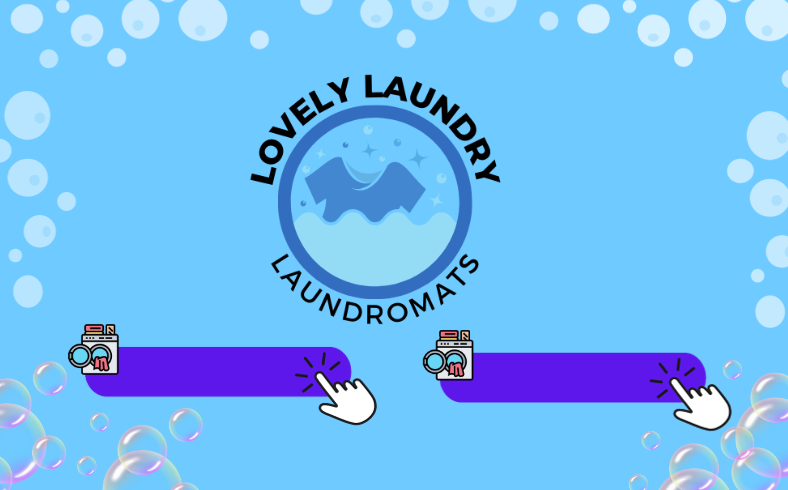
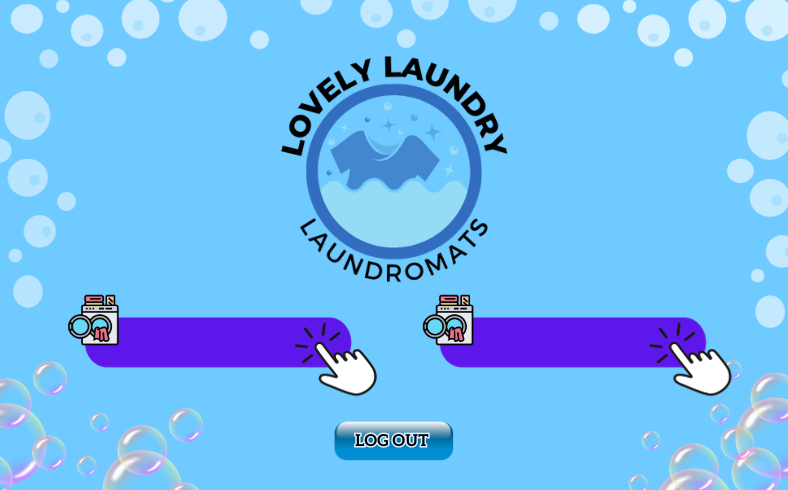
Modified some classes

Changed region(s): [[0.0609, 0.1224, 0.9442, 0.949]]

diff --git a/src/View/Dashboard.java b/src/View/Dashboard.java
@@ -1,7 +1,6 @@
 package View;
 
 import Controller.*;
-import View.*;
 
 public class Dashboard extends ViewController {
 
@@ -18,26 +17,43 @@ public class Dashboard extends ViewController {
     // <editor-fold defaultstate="collapsed" desc="Generated Code">//GEN-BEGIN:initComponents
     private void initComponents() {
 
-        btnInputOrder = new javax.swing.JButton();
-        btnOrderList = new javax.swing.JButton();
+        jLabel1 = new javax.swing.JLabel();
+        jLabel2 = new javax.swing.JLabel();
         jLabel3 = new javax.swing.JLabel();
+        jLabel4 = new javax.swing.JLabel();
+        btnLogout = new javax.swing.JButton();
+        btnOrderList = new javax.swing.JButton();
+        btnInputOrder = new javax.swing.JButton();
 
         setDefaultCloseOperation(javax.swing.WindowConstants.EXIT_ON_CLOSE);
-        setPreferredSize(new java.awt.Dimension(780, 490));
         getContentPane().setLayout(null);
 
-        btnInputOrder.setBackground(new java.awt.Color(94, 23, 235));
-        btnInputOrder.setFont(new java.awt.Font("Segoe UI", 1, 18)); // NOI18N
-        btnInputOrder.setForeground(new java.awt.Color(255, 255, 255));
-        btnInputOrder.setText("Input Order");
-        btnInputOrder.setBorder(null);
-        btnInputOrder.addActionListener(new java.awt.event.ActionListener() {
+        jLabel1.setFont(new java.awt.Font("Segoe UI", 1, 18)); // NOI18N
+        jLabel1.setForeground(new java.awt.Color(255, 255, 255));
+        jLabel1.setText("Input Order");
+        getContentPane().add(jLabel1);
+        jLabel1.setBounds(160, 330, 100, 25);
+
+        jLabel2.setFont(new java.awt.Font("Segoe UI", 1, 18)); // NOI18N
+        jLabel2.setForeground(new java.awt.Color(255, 255, 255));
+        jLabel2.setText("Order List");
+        getContentPane().add(jLabel2);
+        jLabel2.setBounds(520, 330, 100, 25);
+        getContentPane().add(jLabel3);
+        jLabel3.setBounds(0, 0, 0, 490);
+
+        jLabel4.setIcon(new javax.swing.ImageIcon("D:\\Kuliah\\Tugas\\Semester 3\\Pemrograman Berorientasi Objek\\Laundry\\src\\Image\\dashboard.png")); // NOI18N
+        getContentPane().add(jLabel4);
+        jLabel4.setBounds(0, 0, 790, 490);
+
+        btnLogout.setText("Logout");
+        btnLogout.addActionListener(new java.awt.event.ActionListener() {
             public void actionPerformed(java.awt.event.ActionEvent evt) {
-                btnInputOrderActionPerformed(evt);
+                btnLogoutActionPerformed(evt);
             }
         });
-        getContentPane().add(btnInputOrder);
-        btnInputOrder.setBounds(120, 350, 180, 40);
+        getContentPane().add(btnLogout);
+        btnLogout.setBounds(350, 420, 100, 40);
 
         btnOrderList.setBackground(new java.awt.Color(94, 23, 235));
         btnOrderList.setFont(new java.awt.Font("Segoe UI", 1, 18)); // NOI18N
@@ -50,26 +66,45 @@ public class Dashboard extends ViewController {
             }
         });
         getContentPane().add(btnOrderList);
-        btnOrderList.setBounds(480, 360, 170, 30);
+        btnOrderList.setBounds(470, 320, 210, 50);
 
-        jLabel3.setIcon(new javax.swing.ImageIcon("D:\\Kuliah\\Tugas\\Semester 3\\Pemrograman Berorientasi Objek\\Laundry\\src\\Image\\dashboard.png")); // NOI18N
-        getContentPane().add(jLabel3);
-        jLabel3.setBounds(0, 0, 790, 490);
+        btnInputOrder.setBackground(new java.awt.Color(94, 23, 235));
+        btnInputOrder.setFont(new java.awt.Font("Segoe UI", 1, 18)); // NOI18N
+        btnInputOrder.setForeground(new java.awt.Color(255, 255, 255));
+        btnInputOrder.setText("Input Order");
+        btnInputOrder.setBorder(null);
+        btnInputOrder.addActionListener(new java.awt.event.ActionListener() {
+            public void actionPerformed(java.awt.event.ActionEvent evt) {
+                btnInputOrderActionPerformed(evt);
+            }
+        });
+        getContentPane().add(btnInputOrder);
+        btnInputOrder.setBounds(120, 320, 220, 50);
 
-        pack();
+        setSize(new java.awt.Dimension(804, 528));
+        setLocationRelativeTo(null);
     }// </editor-fold>//GEN-END:initComponents
 
     private void btnInputOrderActionPerformed(java.awt.event.ActionEvent evt) {//GEN-FIRST:event_btnInputOrderActionPerformed
-
+        
     }//GEN-LAST:event_btnInputOrderActionPerformed
 
     private void btnOrderListActionPerformed(java.awt.event.ActionEvent evt) {//GEN-FIRST:event_btnOrderListActionPerformed
-
+        
     }//GEN-LAST:event_btnOrderListActionPerformed
+
+    private void btnLogoutActionPerformed(java.awt.event.ActionEvent evt) {//GEN-FIRST:event_btnLogoutActionPerformed
+        getUserController().logout();
+        openFrame("login");
+    }//GEN-LAST:event_btnLogoutActionPerformed
 
     // Variables declaration - do not modify//GEN-BEGIN:variables
     private javax.swing.JButton btnInputOrder;
+    private javax.swing.JButton btnLogout;
     private javax.swing.JButton btnOrderList;
+    private javax.swing.JLabel jLabel1;
+    private javax.swing.JLabel jLabel2;
     private javax.swing.JLabel jLabel3;
+    private javax.swing.JLabel jLabel4;
     // End of variables declaration//GEN-END:variables
 }

diff --git a/src/View/Register.java b/src/View/Register.java
@@ -44,7 +44,7 @@ public class Register extends ViewController {
             }
         });
         getContentPane().add(btnRegist);
-        btnRegist.setBounds(470, 400, 72, 23);
+        btnRegist.setBounds(480, 400, 72, 23);
 
         btnBack.setText("Back");
         btnBack.addActionListener(new java.awt.event.ActionListener() {
@@ -67,50 +67,14 @@ public class Register extends ViewController {
         
     }//GEN-LAST:event_inputUsernameActionPerformed
                      
-    private void btnRegistActionPerformed(java.awt.event.ActionEvent evt) {//GEN-FIRST:event_btnRegistActionPerformed
-
-    }//GEN-LAST:event_btnRegistActionPerformed
-
     private void btnBackActionPerformed(java.awt.event.ActionEvent evt) {//GEN-FIRST:event_btnBackActionPerformed
-        Login login = new Login();
-        login.setVisible(true);
-        this.dispose();
+        openFrame("login");
     }//GEN-LAST:event_btnBackActionPerformed
 
-    /**
-     * @param args the command line arguments
-     */
-    public static void main(String args[]) {
-        /* Set the Nimbus look and feel */
-        //<editor-fold defaultstate="collapsed" desc=" Look and feel setting code (optional) ">
-        /* If Nimbus (introduced in Java SE 6) is not available, stay with the default look and feel.
-         * For details see http://download.oracle.com/javase/tutorial/uiswing/lookandfeel/plaf.html 
-         */
-        try {
-            for (javax.swing.UIManager.LookAndFeelInfo info : javax.swing.UIManager.getInstalledLookAndFeels()) {
-                if ("Nimbus".equals(info.getName())) {
-                    javax.swing.UIManager.setLookAndFeel(info.getClassName());
-                    break;
-                }
-            }
-        } catch (ClassNotFoundException ex) {
-            java.util.logging.Logger.getLogger(Register.class.getName()).log(java.util.logging.Level.SEVERE, null, ex);
-        } catch (InstantiationException ex) {
-            java.util.logging.Logger.getLogger(Register.class.getName()).log(java.util.logging.Level.SEVERE, null, ex);
-        } catch (IllegalAccessException ex) {
-            java.util.logging.Logger.getLogger(Register.class.getName()).log(java.util.logging.Level.SEVERE, null, ex);
-        } catch (javax.swing.UnsupportedLookAndFeelException ex) {
-            java.util.logging.Logger.getLogger(Register.class.getName()).log(java.util.logging.Level.SEVERE, null, ex);
-        }
-        //</editor-fold>
-
-        /* Create and display the form */
-        java.awt.EventQueue.invokeLater(new Runnable() {
-            public void run() {
-                new Register().setVisible(true);
-            }
-        });
-    }
+    private void btnRegistActionPerformed(java.awt.event.ActionEvent evt) {//GEN-FIRST:event_btnRegistActionPerformed
+        getUserController().addCustomer(inputUsername.getText(), inputNomorhp.getText());
+        openFrame("login");
+    }//GEN-LAST:event_btnRegistActionPerformed
 
     // Variables declaration - do not modify//GEN-BEGIN:variables
     private javax.swing.JButton btnBack;

diff --git a/src/View/Login.java b/src/View/Login.java
@@ -2,13 +2,13 @@ package View;
 
 import java.util.ArrayList;
 import java.awt.Image;
-
-public class Login extends javax.swing.JFrame {
-   
-import Controller.*;
-import Logic.*;
 import javax.swing.JOptionPane;
 
+import Controller.*;
+import Logic.*;
+
+public class Login extends ViewController {
+   
     public Login() {
         initComponents();
     }
@@ -57,10 +57,6 @@ import javax.swing.JOptionPane;
         btnLogin.setBounds(670, 390, 72, 23);
 
         jLabel1.setIcon(new javax.swing.ImageIcon("D:\\Kuliah\\Tugas\\Semester 3\\Pemrograman Berorientasi Objek\\Laundry\\src\\Image\\login.png")); // NOI18N
-        jLabel2.setForeground(new java.awt.Color(255, 255, 255));
-        jLabel2.setText("Register?");
-        getContentPane().add(jLabel2);
-        jLabel2.setBounds(560, 350, 60, 16);
         getContentPane().add(jLabel1);
         jLabel1.setBounds(0, 0, 790, 490);
 
@@ -82,7 +78,7 @@ import javax.swing.JOptionPane;
     }//GEN-LAST:event_inputNamaActionPerformed
 
     private void btnLoginActionPerformed(java.awt.event.ActionEvent evt) {//GEN-FIRST:event_btnLoginActionPerformed
-        User user = getUserController().login(inputNama.getText(), new String(inputPassword.getText()));
+        User user = getUserController().login(inputNama.getText(), inputPassword.getText());
 
         if (user == null) {
             JOptionPane.showMessageDialog(this, "Email atau password salah!", "Login gagal", JOptionPane.WARNING_MESSAGE);
@@ -92,10 +88,7 @@ import javax.swing.JOptionPane;
     }//GEN-LAST:event_btnLoginActionPerformed
 
     private void btnRegistActionPerformed(java.awt.event.ActionEvent evt) {//GEN-FIRST:event_btnRegistActionPerformed
-        // TODO add your handling code here:
-        Register register = new Register();
-        register.setVisible(true);
-        this.dispose();
+        openFrame("register");
     }//GEN-LAST:event_btnRegistActionPerformed
 
     public static void main(String args[]) {
